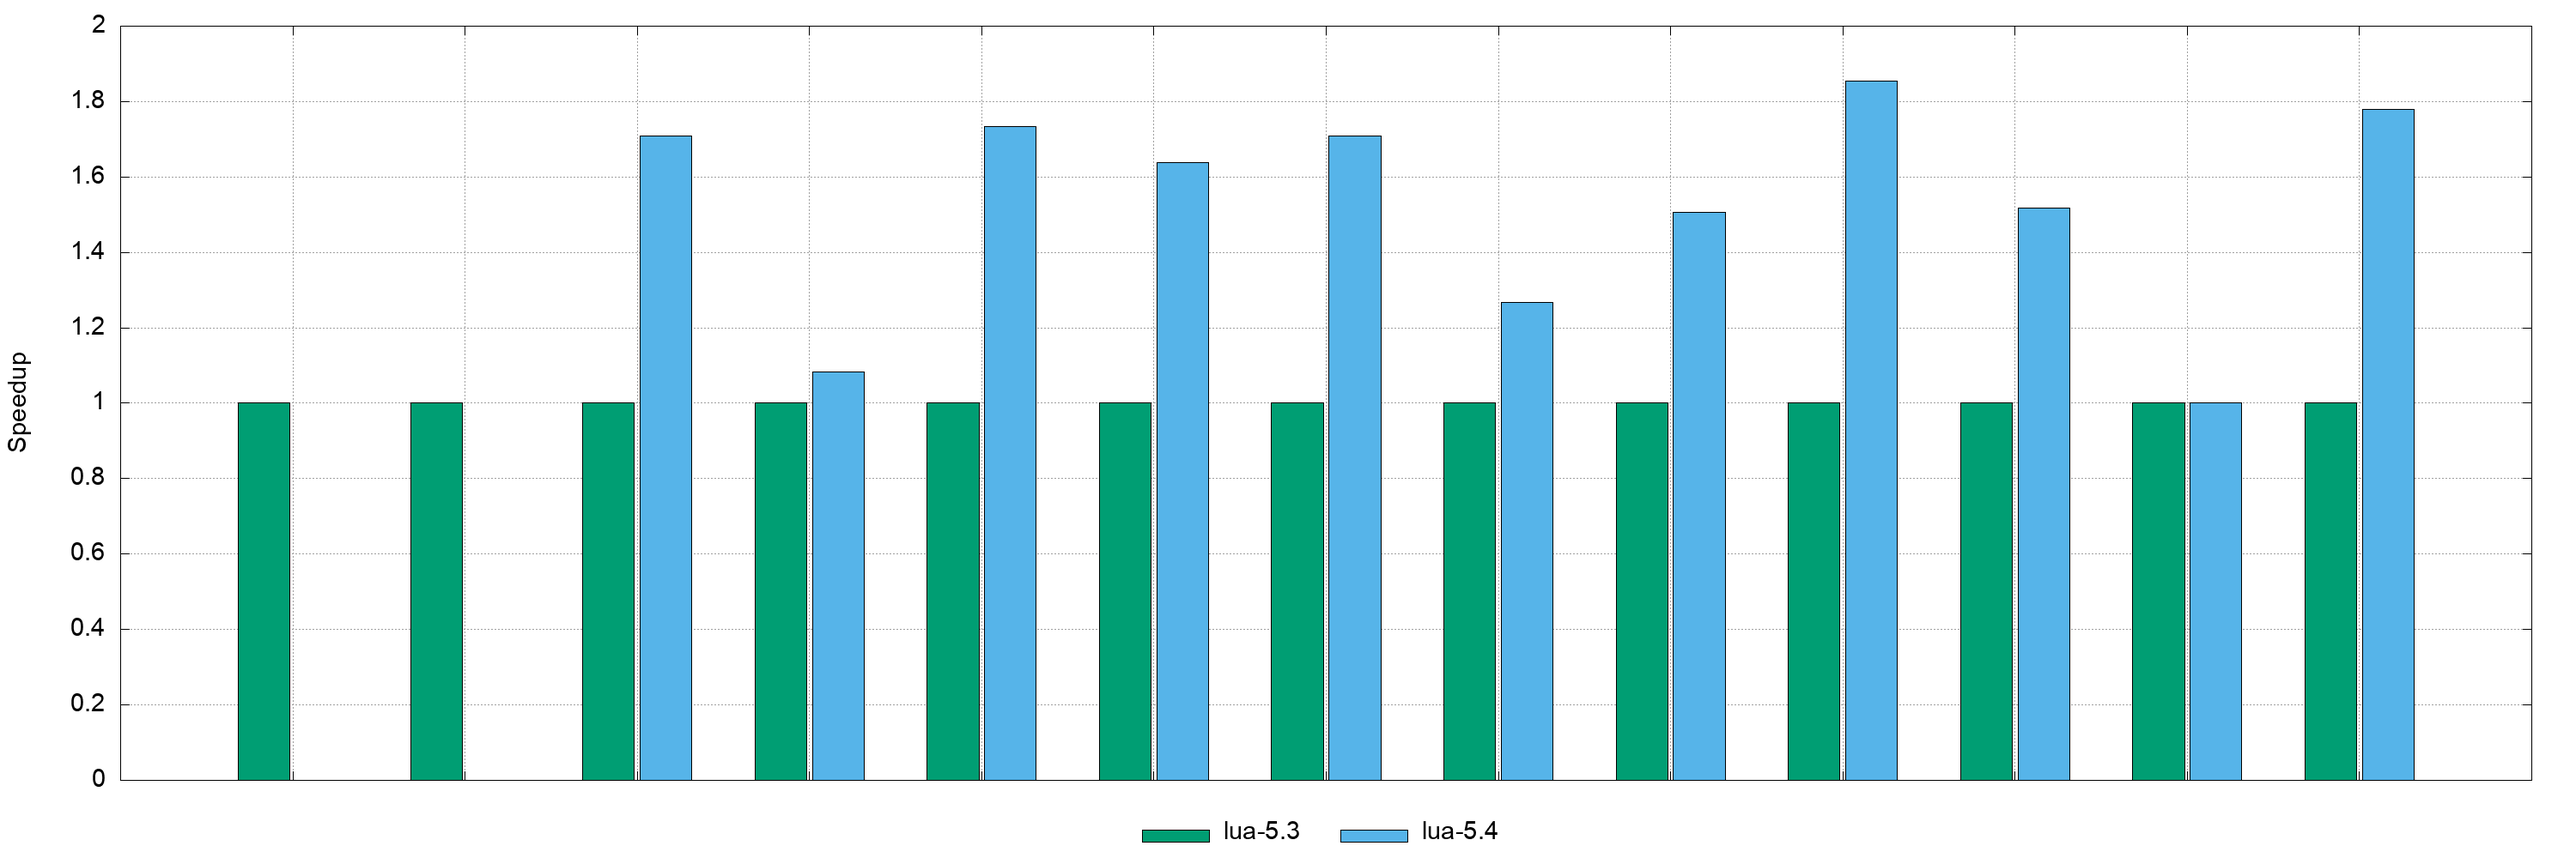
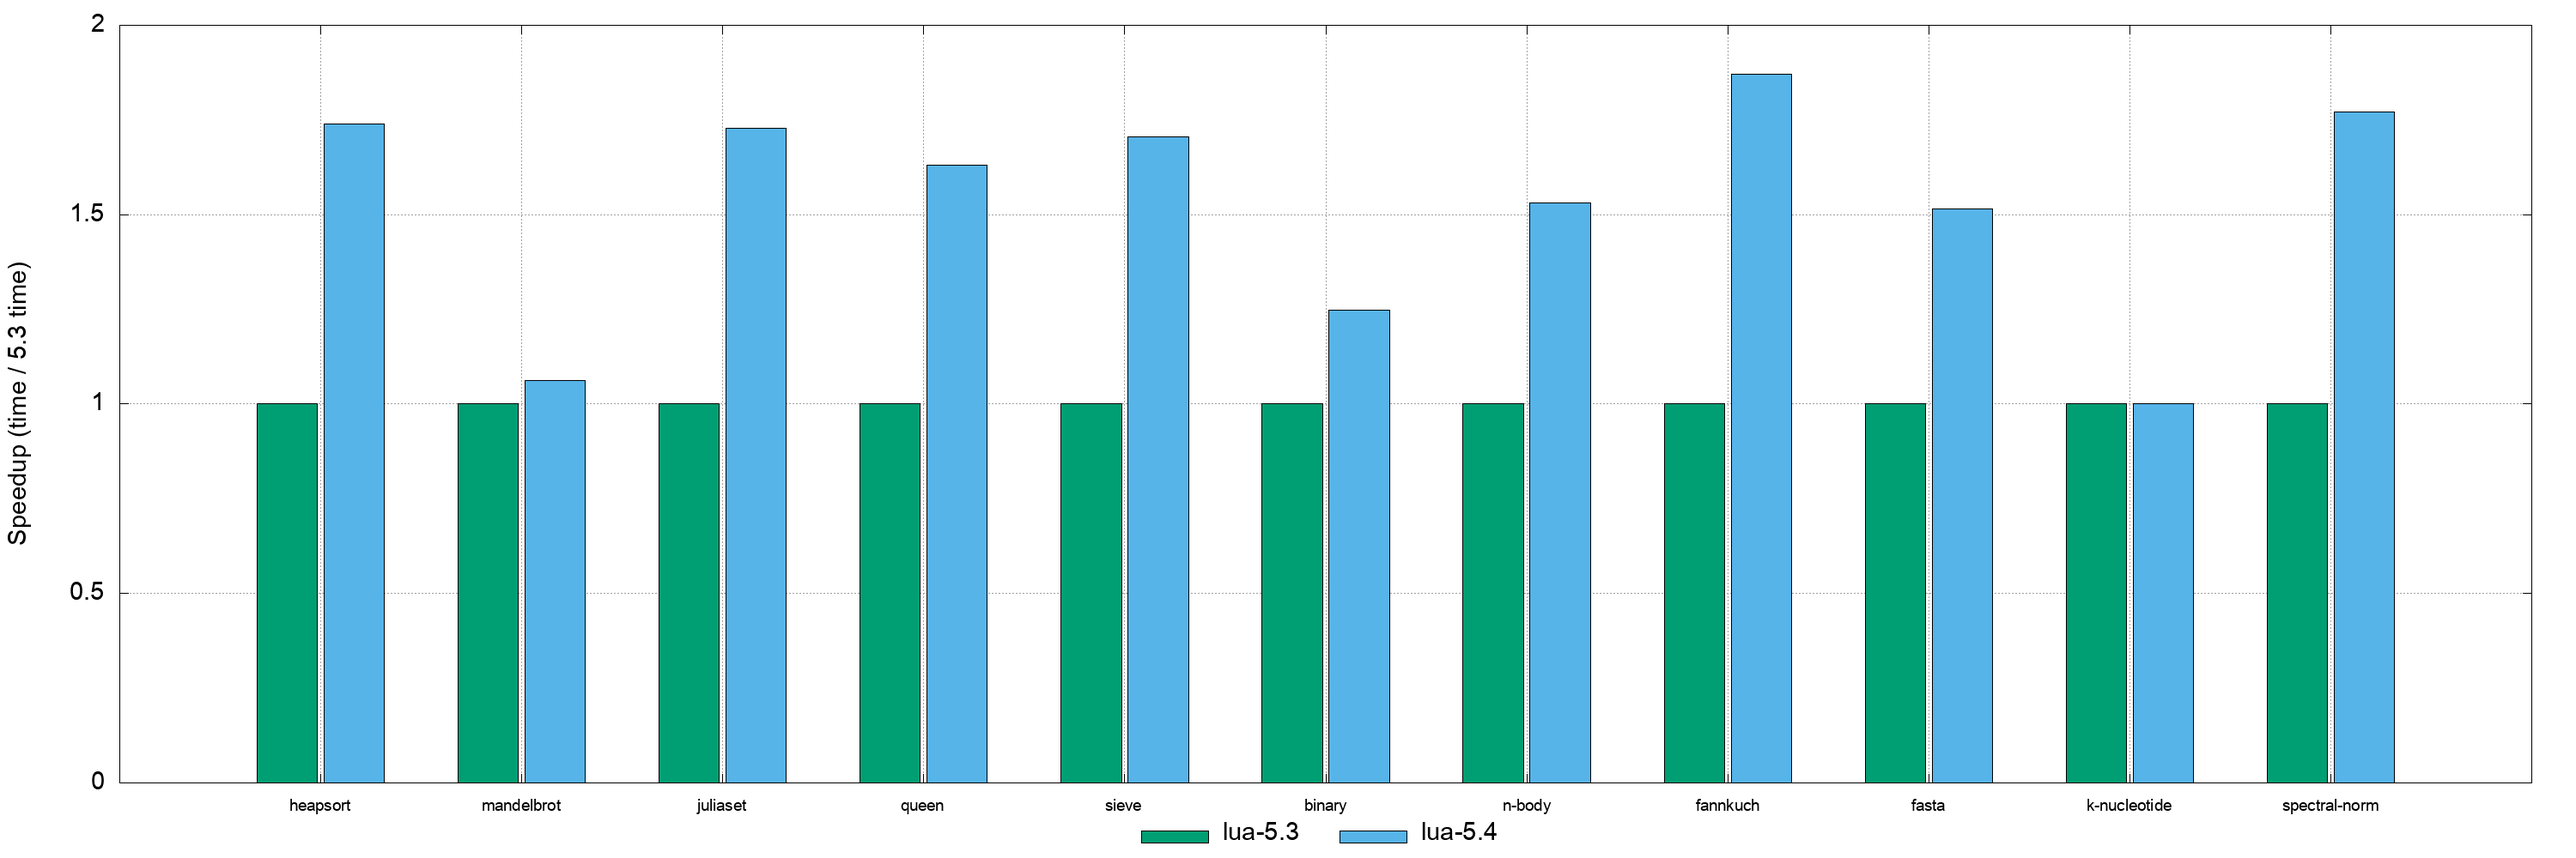
Edits, update benchmark image

diff --git a/writings/2020-07-15-whats-new-in-lua-54.md b/writings/2020-07-15-whats-new-in-lua-54.md
@@ -29,13 +29,13 @@ span {
 </style>
 
 
-<p>Two weeks ago <a href="https://www.lua.org/">Lua</a> version 5.4 was released, the fifteenth <a href="https://www.lua.org/versions.html">major version</a> of the lightweight scripting language since its creation in 1993. New in 5.4 is a generational garbage collector and the <tt>const</tt> and <tt>close</tt> local variable attributes, as well as significant performance improvements and a host of minor changes.</p>
+<p>Two weeks ago <a href="https://www.lua.org/">Lua</a> version 5.4 was released, the fifteenth major version of the lightweight scripting language since its creation in 1993. <a href="https://www.lua.org/manual/5.4/readme.html#changes">New in 5.4</a> is a generational mode for the garbage collector, which performs better for programs with lots of short-lived allocations. The language now supports "attributes" on local variable, allowing developers to mark variables as constant (<tt>const</tt>) or resources as closeable (<tt>close</tt>). There were also significant performance improvements over 5.3, and a host of minor changes.</p>
 
 <p>Lua is a programming language optimized for embedding inside other applications, with notable users such as Redis and Adobe Lightroom. It's also one of the <a href="http://www.satori.org/2009/03/the-engine-survey-general-results/">most-used</a> scripting languages for games, including big names such as World of Warcraft and Angry Birds. Part of the reason Lua is good for embedding is because it is small: in these days of multi-megabyte downloads for even the simplest applications, the entire Lua 5.4 distribution (source plus docs) is a 349 KB archive. To build a Lua interpreter with the default configuration, a developer can type <tt>make</tt> and wait about five seconds for compilation &mdash; the result is a self-contained 200-300 KB binary.</p>
 
-<p>Major versions of Lua are released every few years, not on any particular release cycle. The <a href="https://www.lua.org/manual/5.3/readme.html#changes">previous major version</a>, 5.3, was released over five years ago in January 2015, with the addition of a separate integer type (previously it used only floating-point numbers), bitwise operators, a basic UTF-8 library, and many minor features.</p>
+<p><a href="https://www.lua.org/versions.html">Major versions</a> of Lua are released every few years, not on any particular release cycle. The <a href="https://www.lua.org/manual/5.3/readme.html#changes">previous major version</a>, 5.3, was released over five years ago in January 2015, with the addition of a separate integer type (previously it used only floating-point numbers), bitwise operators, a basic UTF-8 library, and many minor features.</p>
 
-<p>One of the interesting new features in Lua 5.4 is the addition of <a href="https://www.lua.org/manual/5.4/manual.html#3.3.7">local variable "attributes"</a>. When declaring a local (block-scoped) variable, the developer can add <tt>&lt;const&gt;</tt> or <tt>&lt;close&gt;</tt> after a variable name to give it that attribute. The <tt>const</tt> attribute is straight-forward: similar to <tt>const</tt> in JavaScript, it means the specified variable cannot be reassigned after the initialization in its declaration (this is not the same as immutable; for example, a table's entries may still be changed). The <tt>const</tt> attribute provides a small amount of compile-time safety, as the compiler will give an error if a constant is accidentally reassigned:</p>
+<p>One of the interesting new features in Lua 5.4 is the addition of <a href="https://www.lua.org/manual/5.4/manual.html#3.3.7">local variable "attributes"</a>. When declaring a local (block-scoped) variable, the developer can add <tt>&lt;const&gt;</tt> or <tt>&lt;close&gt;</tt> after a variable name to give it that attribute. The <tt>const</tt> attribute is straight-forward: similar to <tt>const</tt> in JavaScript, it means the specified variable cannot be reassigned after the initialization in its declaration. The <tt>const</tt> attribute does not make a data structure "immutable": a developer is not prevented from changing entries in a table using a <tt>const</tt> variable, but the variable name cannot be assigned again. The <tt>const</tt> attribute provides a small amount of compile-time safety, as the compiler will give an error if a constant is accidentally reassigned:</p>
 
 <pre>
     do
@@ -77,7 +77,7 @@ span {
 
 <p>Previously developers would have to use the <tt>__gc</tt> metamethod for this purpose, but that is only called when the object is garbage collected some time later, not deterministically at the end of the block.</p>
 
-<p>Version 5.4 also brings a new <a href="http://www.lua.org/manual/5.4/manual.html#2.5.2">generational</a> garbage collector (GC), which performs better for certain kinds of programs where objects usually have a short lifetime. Interestingly, Roberto Ierusalimschy (one of the creators of Lua) <a href="http://lua-users.org/lists/lua-l/2017-10/msg00113.html">noted in 2017</a> that Lua had a generational GC previously:</p>
+<p>Version 5.4 also brings a new <a href="http://www.lua.org/manual/5.4/manual.html#2.5.2">generational</a> garbage collection (GC) mode, which performs better for certain kinds of programs where objects usually have a short lifetime. A generational GC &mdash; based on the observation that "most objects die young" &mdash; scans and collects garbage from "young" objects more frequently than older objects (those which are still referenced after a generation or more). Interestingly, Roberto Ierusalimschy (one of the creators of Lua) <a href="http://lua-users.org/lists/lua-l/2017-10/msg00113.html">noted in 2017</a> that Lua had a generational GC previously:</p>
 
 <div class="BigQuote">
 <p>Lua has an incremental garbage collector since 5.1. It was the
@@ -86,7 +86,7 @@ then removed in 5.3. It will come again in 5.4, this time probably to
 stay.</p>
 </div>
 
-<p>Ierusalimschy gave a talk in 2019 (<a href="https://www.lua.org/wshop18/Ierusalimschy.pdf">slides PDF</a> and <a href="https://www.youtube.com/watch?v=wGizKsOJQuE">YouTube video</a>) that goes into more detail about how incremental GC works, as well as why the 5.2 generational GC didn't perform very well and what the Lua team replaced it with. In 5.2's version, objects only had to survive a single GC cycle before becoming "old", but in 5.4 they have to survive two GC cycles, which is a more accurate model for real-world Lua programs. The two-cycle approach is more complicated to implement but gives better GC performance for many programs &mdash; though not all: Ierusalimschy notes that batch programs that build large data structures won't benefit. Possibly for that reason, the Lua team didn't change the default: in 5.4 the default is still to use the incremental collector, and a developer needs to write <tt>collectgarbage("generational")</tt> to turn on the generational GC.</p>
+<p>Ierusalimschy gave a talk in 2019 (<a href="https://www.lua.org/wshop18/Ierusalimschy.pdf">slides PDF</a> and <a href="https://www.youtube.com/watch?v=wGizKsOJQuE">YouTube video</a>) that goes into more detail about how incremental GC works, as well as why the 5.2 generational GC didn't perform very well and what the Lua team replaced it with. In 5.2's version, objects only had to survive a single GC cycle (collector pass) before becoming "old", but in 5.4 they have to survive two GC cycles, which is a more accurate model for real-world Lua programs. The two-cycle approach is more complicated to implement but gives better GC performance for many programs &mdash; though not all: Ierusalimschy notes that batch programs that build large data structures won't benefit. Possibly for that reason, the Lua team didn't change the default: in 5.4 the default is still to use the incremental collector, and a developer needs to write <tt>collectgarbage("generational")</tt> to turn on the generational GC.</p>
 
 <p>On the lua-l mailing list, Gé Weijers <a href="http://lua-users.org/lists/lua-l/2019-06/msg00169.html">describes</a> how the generational GC ties into the new <tt>&lt;close&gt;</tt> feature (which used to be called <tt>toclose</tt>):</p>
 
@@ -95,11 +95,11 @@ stay.</p>
 <p>The new "toclose" feature is much more useful to release resources and unlock locks in a timely matter.</p>
 </div>
 
-<p>One of the unsung features in 5.4 is a significantly faster interpreter. In a test I did on my 64-bit macOS machine using Gabriel de Quadros Ligneul's <a href="https://github.com/gligneul/Lua-Benchmarks">Lua-Benchmarks</a> suite, I found that version 5.4 was an average of 40% faster than version 5.3 across the 12 benchmarks included in the suite:</p>
+<p>One of the unsung features in 5.4 is a significantly faster interpreter. In a test I did on my 64-bit macOS machine using Gabriel de Quadros Ligneul's <a href="https://github.com/gligneul/Lua-Benchmarks">Lua-Benchmarks</a> suite, I found that version 5.4 was an average of 40% faster than version 5.3 across the 11 benchmarks included in the suite:</p>
 
 <img src="/images/lua-54-benchmark.png">
 
-<p>Similar gains are shown in Elmar Klausmeier's <a href="https://eklausmeier.wordpress.com/2020/05/14/performance-comparison-pallene-vs-lua-5-1-5-2-5-3-5-4-vs-c/">performance comparison</a>. Admittedly, both of these are rather artificial benchmarks &mdash; when using Lua in something like a game engine, performance-sensitive code like graphics or matrix multiplication will no doubt be written in C. Still, an improvement of this magnitude for number-centric code is not to be scoffed at. Dibyendu Majumdar <a href="http://lua-users.org/lists/lua-l/2018-03/msg00404.html">describes</a> some of the reasons for these improvements on the lua-l mailing list back in 2018:</p>
+<p>Similar gains are shown in Elmar Klausmeier's <a href="https://eklausmeier.wordpress.com/2020/05/14/performance-comparison-pallene-vs-lua-5-1-5-2-5-3-5-4-vs-c/">performance comparison</a>. Admittedly, both of these are rather artificial benchmarks &mdash; when using Lua in something like a game engine, performance-sensitive code like graphics or matrix multiplication will no doubt be written in C. Still, an improvement of this magnitude for number-centric code (which most of these benchmarks are) is not to be scoffed at. Dibyendu Majumdar <a href="http://lua-users.org/lists/lua-l/2018-03/msg00404.html">describes</a> some of the reasons for these improvements on the lua-l mailing list back in 2018:</p>
 
 <div class="BigQuote">
 <p>Lua 5.4 has several optimizations for bytecodes that is used in
@@ -114,12 +114,12 @@ net result is improved performance which is very welcome.</p>
 
 <p>Those who need much higher performance can use Mike Pall's <a href="https://luajit.org/">LuaJIT</a>, a just-in-time compiler for Lua 5.1 that is <a href="https://luajit.org/performance_arm.html">significantly faster</a> than the stock Lua interpreter. However, LuaJIT hasn't added any of Lua's new features since version 5.1, and to do so would be <a href="https://news.ycombinator.com/item?id=9985074">quite an undertaking</a> due to many breaking changes, including new scoping rules in 5.2 and the addition of an integer type in 5.3. For this reason, Pall has been a <a href="https://www.freelists.org/post/luajit/Port-bitop-to-53,1">vocal critic</a> of how many backwards-incompatible changes the Lua team makes in each release.</p>
 
-<p>This does seem to be a real problem, and not only with obscure edge cases: two of the benchmarks in the suite shown above fail in 5.4 with a "C stack overflow" error (but work fine in 5.3). The <tt><a href="https://github.com/gligneul/Lua-Benchmarks/blob/master/ack.lua">ack</a></tt> and <tt><a href="https://github.com/gligneul/Lua-Benchmarks/blob/master/fixpoint-fact.lua">fixpoint-fact</a></tt> benchmarks fail, presumably due to different handling of recursive tail calls in 5.4. Most of the incompatibilities in 5.4 are <a href="https://www.lua.org/manual/5.4/manual.html#8">documented</a>, but presumably the length of that list still causes a fair bit of pain for those trying to upgrade large Lua scripts. My guess is that this is why tools that need long-term stability, like Redis, lock in a specific older version of Lua (in Redis's case, version 5.1).</p>
+<p>This does seem to be a real problem, and not only with obscure edge cases: two of the benchmarks in the original Lua-Benchmarks suite failed in 5.4 with a "C stack overflow" error (but work fine in 5.3), so I had to remove them before running it. The <tt><a href="https://github.com/gligneul/Lua-Benchmarks/blob/master/ack.lua">ack</a></tt> and <tt><a href="https://github.com/gligneul/Lua-Benchmarks/blob/master/fixpoint-fact.lua">fixpoint-fact</a></tt> benchmarks fail, presumably due to different handling of recursive tail calls in 5.4. Most of the incompatibilities in 5.4 are <a href="https://www.lua.org/manual/5.4/manual.html#8">documented</a>, but presumably the length of that list still causes a fair bit of pain for those trying to upgrade large Lua scripts. My guess is that this is why tools that need long-term stability, like Redis, lock in a specific older version of Lua (in Redis's case, version 5.1).</p>
 
 <p>Incompatibilities between Lua versions may also contribute to the problem of Lua not having a unified standard library, which LWN <a href="https://lwn.net/Articles/812122/">wrote about</a> back in February. If a library author has to do a bunch of work to upgrade when a new Lua version comes out, they will be less likely to keep it up to date, and make it more likely for someone to create a fork that works on the new Lua version, or simply write a new library.</p>
 
-<p>In addition to the larger changes, Lua 5.4 adds many smaller features, including a new random number generator using the <a href="https://en.wikipedia.org/wiki/Xorshift#xoshiro256**">xoshiro256**</a> algorithm instead of using the underlying C library's <tt>rand()</tt> function, a simple <a href="https://www.lua.org/manual/5.4/manual.html#pdf-warn">warning system</a> used when there's an error in a finalizer or <tt>__close</tt> method, and the ability for Lua values with "<a href="https://www.lua.org/manual/5.4/manual.html#2.1">userdata</a>" to have multiple user values (so that objects in C extensions can have multiple C values stored on them).</p>
+<p>In addition to the larger changes, Lua 5.4 adds many smaller features, including a new random number generator using the <a href="https://en.wikipedia.org/wiki/Xorshift#xoshiro256**">xoshiro256**</a> algorithm instead of using the underlying C library's <tt>rand()</tt> function, a simple <a href="https://www.lua.org/manual/5.4/manual.html#pdf-warn">warning system</a> used when there's an error in a finalizer or <tt>__close</tt> method, and the ability for Lua values with "<a href="https://www.lua.org/manual/5.4/manual.html#2.1">userdata</a>" to have multiple user values (userdata is a pointer to a memory block created with the Lua C API, so this feature allows objects created by C extensions to have multiple memory blocks associated with them).</p>
 
 <p>There were some minor changes in semantics as well: <a href="https://github.com/pallene-lang/pallene/issues/170">slightly different handling</a> of edge cases with wrap-around in <tt>for</tt> loops, and <a href="http://lua-users.org/lists/lua-l/2018-01/msg00020.html">adjustment</a> of string-to-number coercion for integers (for example, <tt>"10"+1</tt> is the integer <tt>11</tt> is 5.4, but the floating-point number <tt>11.0</tt> in 5.3).</p>
 
-<p>Overall, Lua seems like a good language in its domain (embedding into applications), and the release of 5.4 shows it is receiving continual improvements from the core team. The new features in 5.4 will probably be fairly minor for most users, but the performance improvements are a nice win.</p>
+<p>Overall, Lua seems like a good language in its domain (embedding into applications), and the release of 5.4 shows it is receiving continual improvements from the core team. Lua has <a href="https://www.lua.org/faq.html#1.4">no clear roadmap</a>, so it's hard to know at this early stage what changes are being planned for 5.5, or when that is likely to be released (one developer even <a href="https://www.quora.com/What-is-the-future-of-Lua/answer/Pierre-Chapuis">speculates</a> the next version may be "<span>a very impacting change</span>" with a 6.0 version number). In any event, the new features in 5.4 will probably be fairly minor for most users, but the performance improvements are a nice win.</p>
